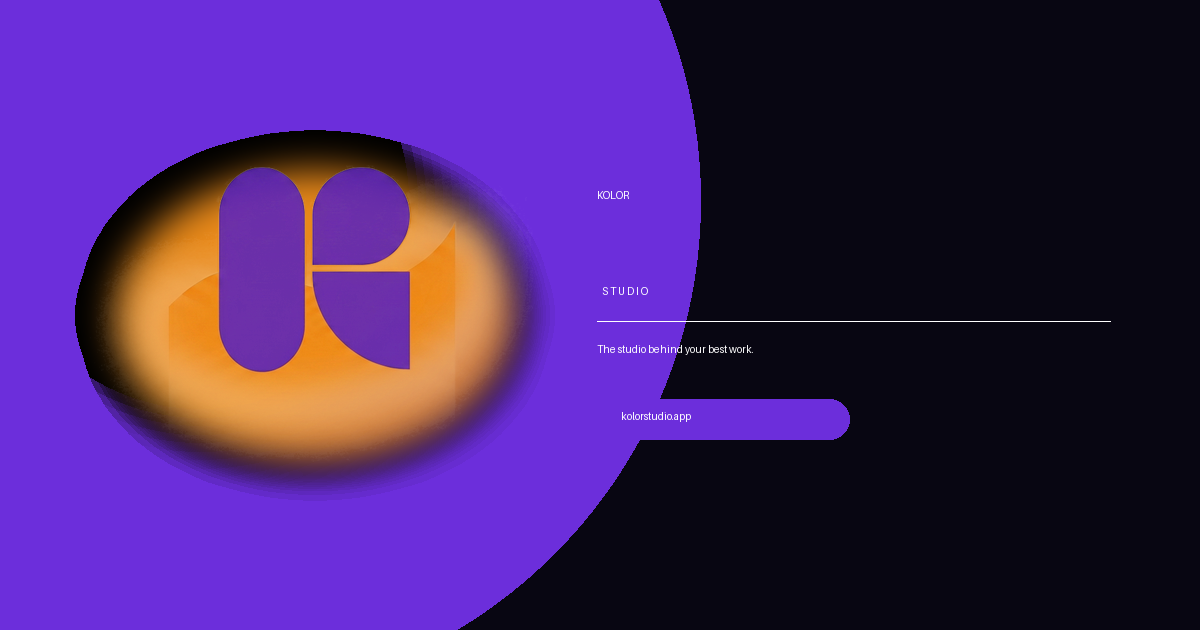
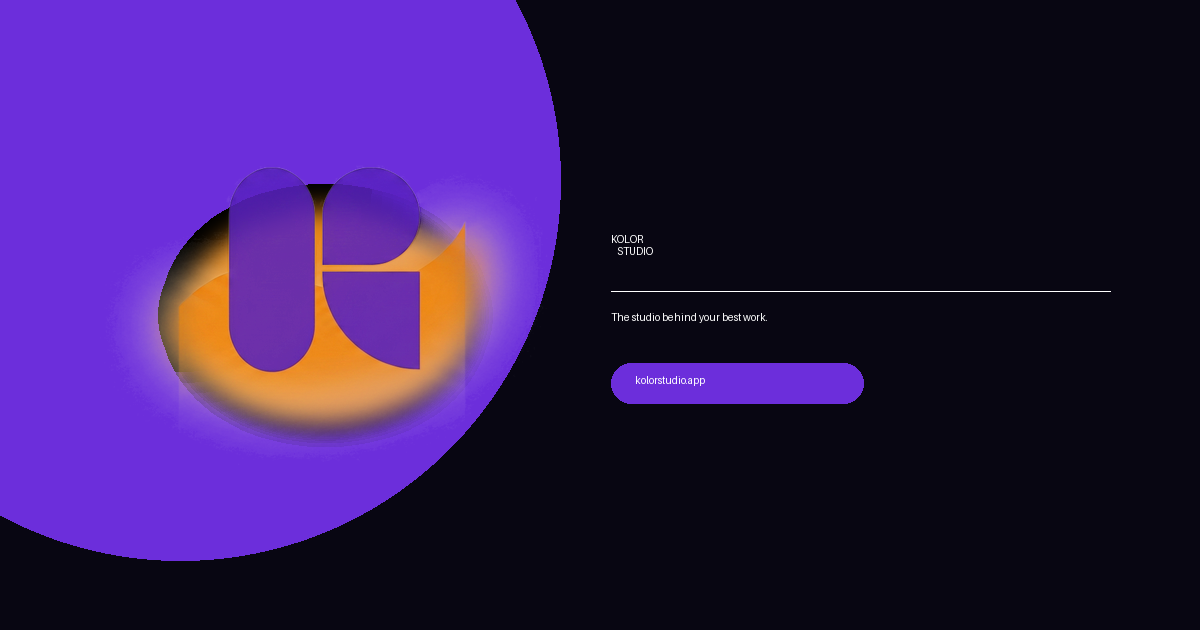
fix: OG card KOLOR/STUDIO spacing + title copy
- STUDIO now 4px below KOLOR using measured textbbox height
- STUDIO rendered in bold matching KOLOR weight
- Background purple glow reduced, amber glow tighter behind mark
- og:title updated to include designers and fine artists

diff --git a/frontend/index.html b/frontend/index.html
@@ -24,13 +24,13 @@
     <meta property="og:image:width" content="1200" />
     <meta property="og:image:height" content="630" />
     <meta property="og:image:alt" content="KOLOR Studio — The studio behind your best work." />
-    <meta property="og:title" content="KOLOR Studio — CRM for Photographers &amp; Artists" />
+    <meta property="og:title" content="KOLOR Studio — CRM for Photographers, Designers &amp; Fine Artists" />
     <meta property="og:description" content="Leads, quotes, contracts, and calendar — in one tool built for photographers, designers, and fine artists. The studio behind your best work." />
     <meta property="og:url" content="https://kolorstudio.app" />
     <meta property="og:type" content="website" />
     <meta name="twitter:card" content="summary_large_image" />
     <meta name="twitter:image" content="https://kolorstudio.app/og-card.png" />
-    <meta name="twitter:title" content="KOLOR Studio — CRM for Photographers &amp; Artists" />
+    <meta name="twitter:title" content="KOLOR Studio — CRM for Photographers, Designers &amp; Fine Artists" />
     <meta name="twitter:description" content="Leads, quotes, contracts, and calendar — in one tool built for photographers, designers, and fine artists." />
   </head>
   <body>
